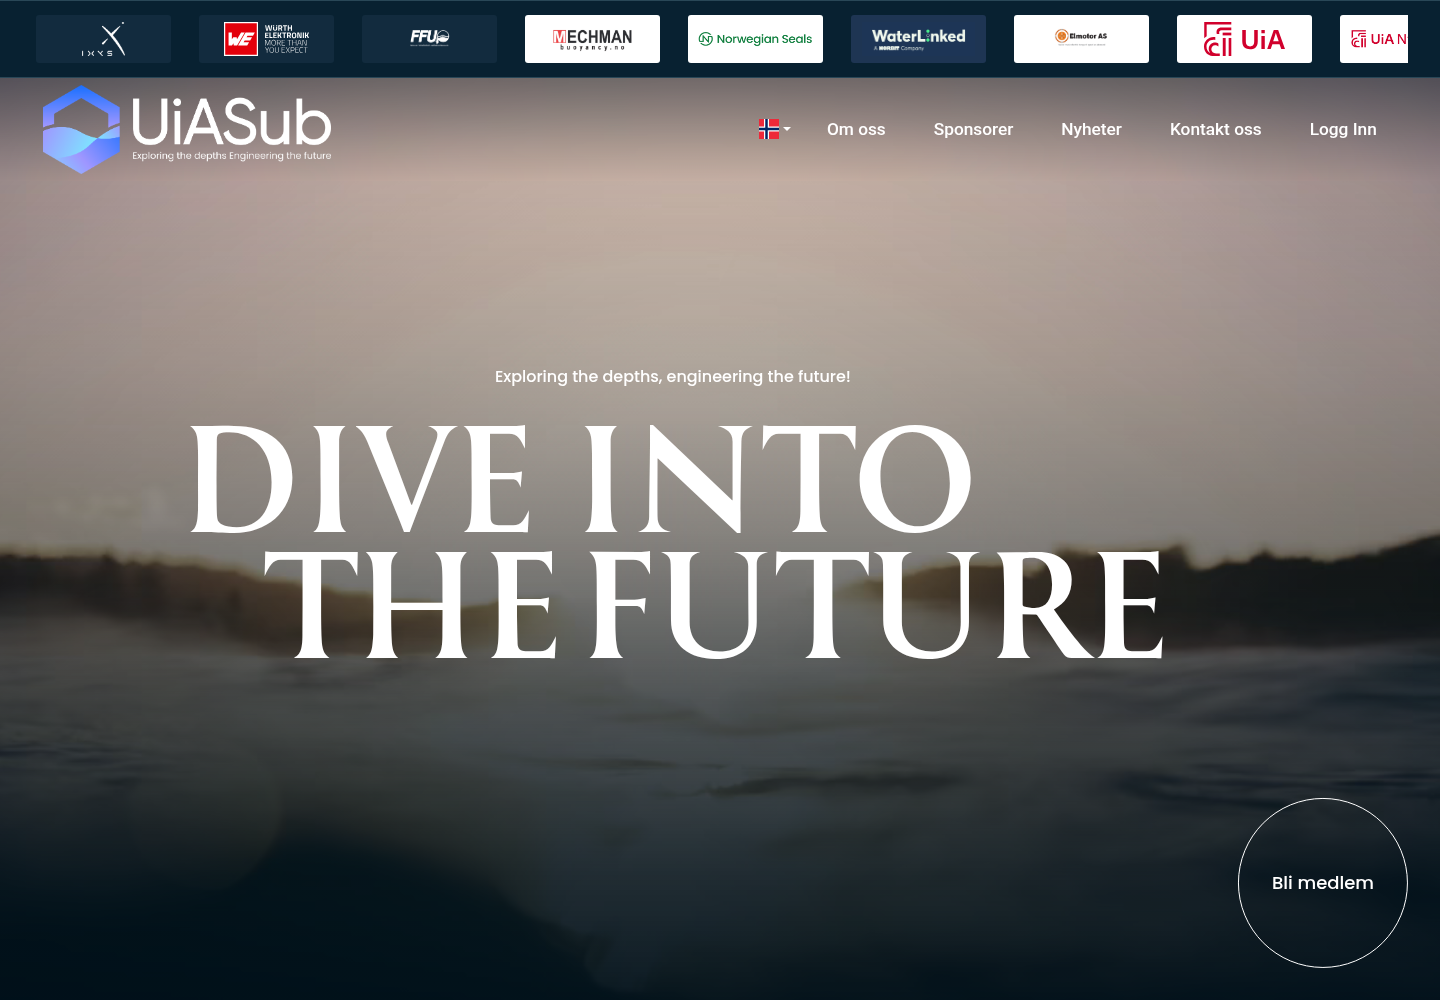
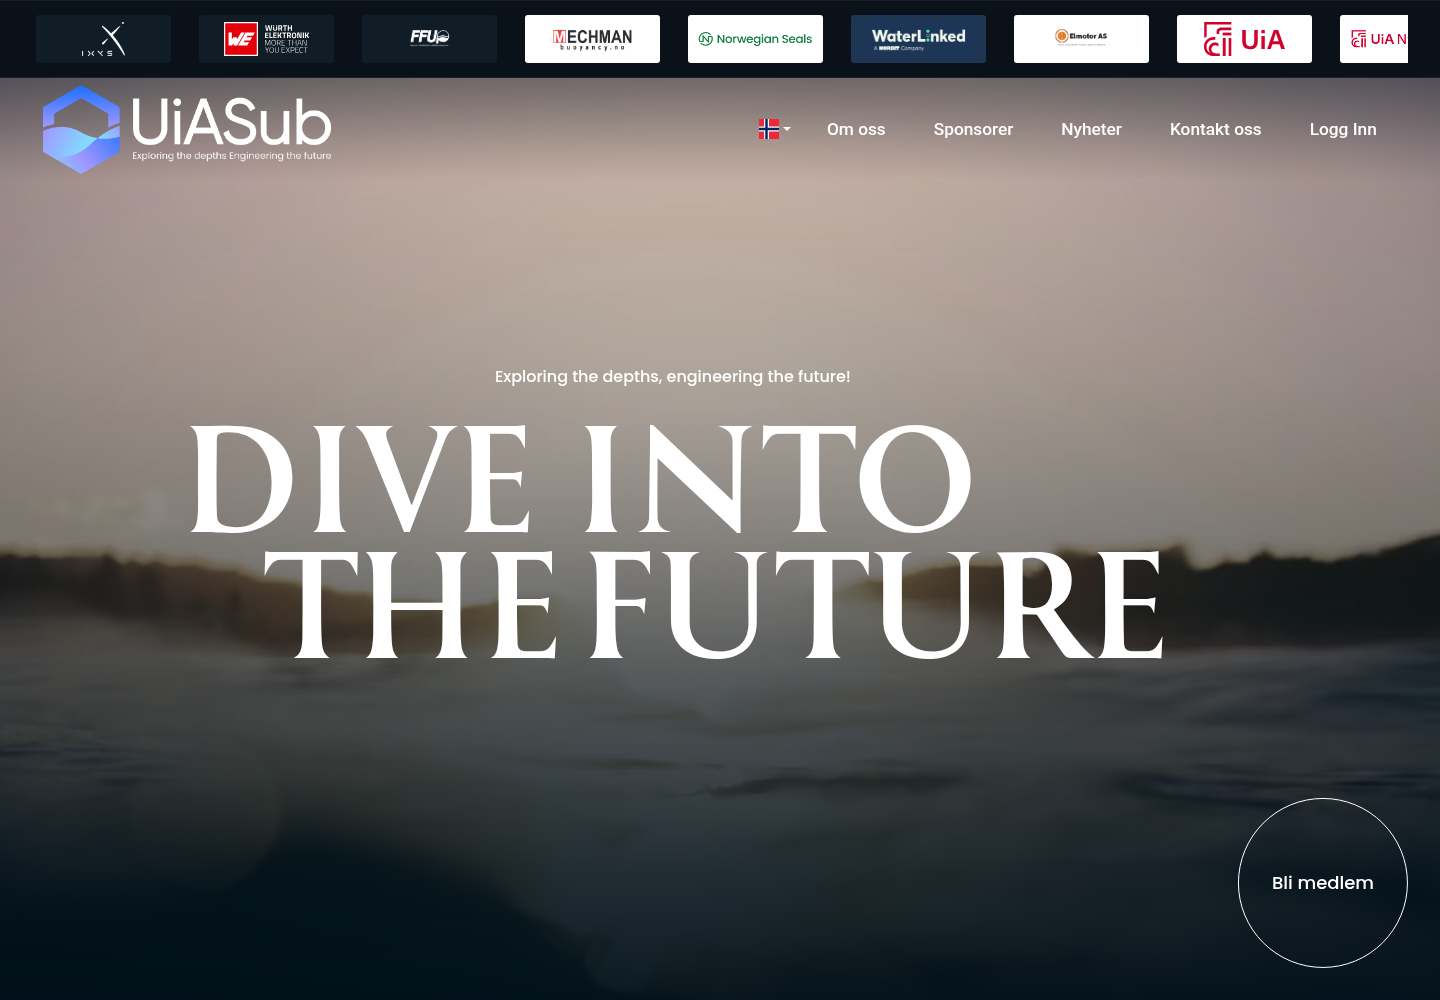
style(home): use muted charcoal for sponsors

Changed region(s): [[0.0, 0.0, 1.0, 0.093]]

diff --git a/css/home-sponsors.css b/css/home-sponsors.css
@@ -10,7 +10,7 @@
 .home-sponsors__logo a { display: flex; align-items: center; justify-content: center; height: 88px; padding: 14px 20px; background: #fff; border-radius: 5px; transition: box-shadow .2s; }
 .home-sponsors__logo a:hover { box-shadow: 0 0 0 2px #44b8ff; }
 .home-sponsors__logo a:focus-visible { outline: 3px solid #44b8ff; outline-offset: 4px; }
-.home-sponsors__logo--dark a { background: #122b3e; }
+.home-sponsors__logo--dark a { background: #101d27; }
 .home-sponsors__logo--waterlinked a { background: #1e3553; }
 .home-sponsors__logo img { display: block; width: 100%; height: 100%; object-fit: contain; }
 @media (max-width: 700px) {
@@ -21,7 +21,7 @@
   .home-sponsors *, .home-sponsors *::before, .home-sponsors *::after { scroll-behavior: auto !important; transition: none !important; }
 }
 
-.home-sponsors { position: relative; z-index: 1090; background: #082131; border-top: 1px solid #294757; border-bottom: 1px solid #294757; }
+.home-sponsors { position: relative; z-index: 1090; background: #0a1118; border-top: 1px solid rgba(255, 255, 255, .07); border-bottom: 1px solid rgba(255, 255, 255, .07); }
 .home-sponsors__inner { width: calc(100% - 64px); display: flex; align-items: center; gap: 24px; height: 76px; }
 .home-sponsors__viewport { flex: 1; min-width: 0; overflow: hidden; contain: layout paint; padding: 4px; }
 .home-sponsors__logos { display: flex; width: max-content; gap: 28px; transform: translate3d(0, 0, 0); will-change: transform; animation: sponsor-drift var(--sponsor-duration, 60s) linear infinite; }
